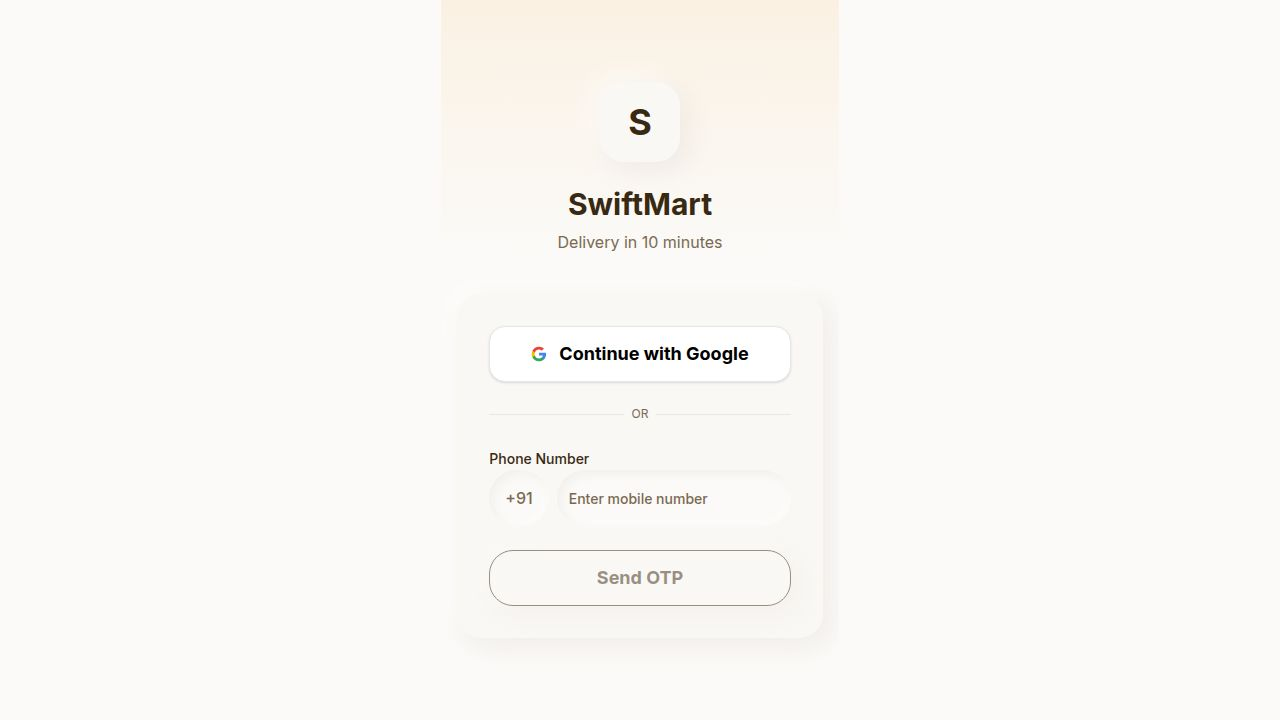
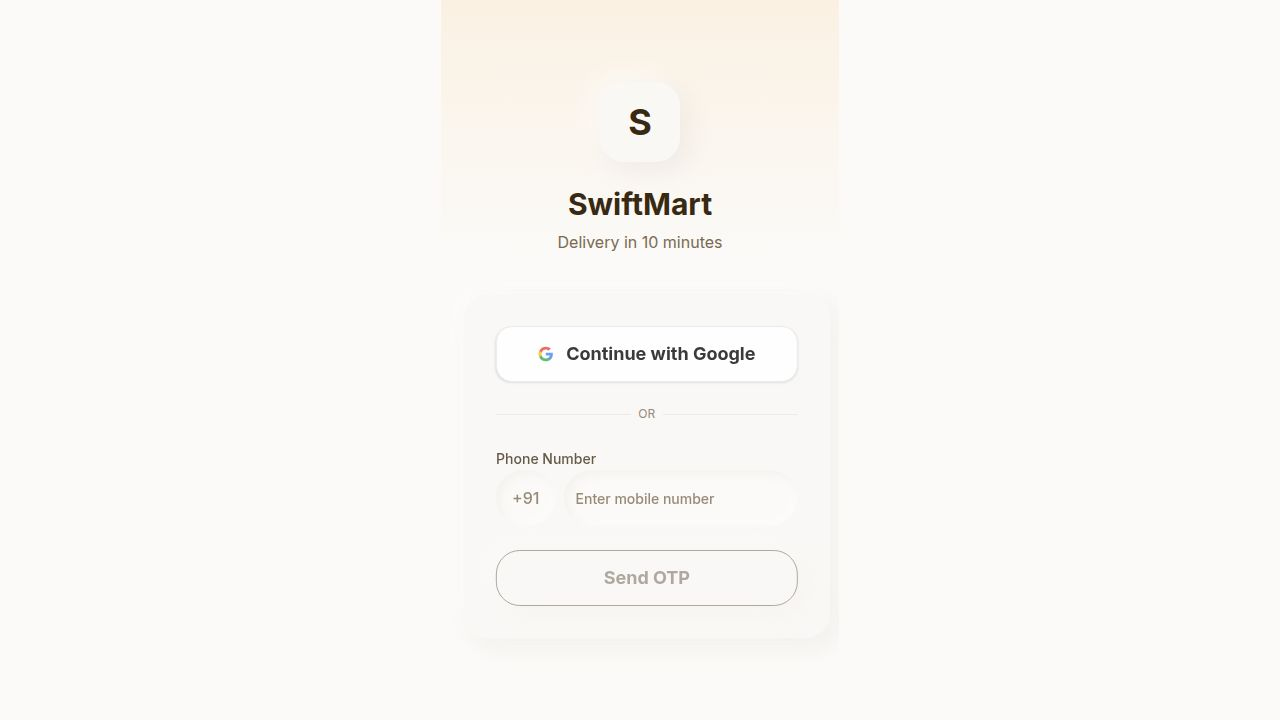
Add navigation links for desktop and display full vendor banking details
Updates the Header component to include desktop navigation links for customers and vendors, and modifies the Admin page to unmask PAN, GST, and bank account numbers for shop requests.

Replit-Commit-Author: Agent
Replit-Commit-Session-Id: 27d57067-208d-4d58-b0d6-c98e8c6edca7
Replit-Commit-Checkpoint-Type: full_checkpoint
Replit-Commit-Event-Id: 44a6b84e-fa17-4f4e-916f-cc07f54c04ff
Replit-Commit-Screenshot-Url: https://storage.googleapis.com/screenshot-production-us-central1/4d9b0657-f4fc-4e25-be52-dabf7b67d852/27d57067-208d-4d58-b0d6-c98e8c6edca7/WR2s22U
Replit-Helium-Checkpoint-Created: true

diff --git a/artifacts/swiftmart/src/components/Header.tsx b/artifacts/swiftmart/src/components/Header.tsx
@@ -1,6 +1,6 @@
-import { useState, useEffect } from "react";
+import { useState } from "react";
 import { Link, useLocation } from "wouter";
-import { Search, MapPin, ShoppingBag, Store } from "lucide-react";
+import { Search, MapPin, ShoppingBag, Store, Clock, User, Shield, LayoutDashboard, Package, ClipboardList, Plus } from "lucide-react";
 import { useAuth } from "@/hooks/useAuth";
 import { useCart } from "@/hooks/useCart";
 import { RoleSwitcher } from "./RoleSwitcher";
@@ -10,10 +10,10 @@ import { Button } from "./ui/button";
 import { AddressForm } from "./AddressForm";
 import { AddressCard } from "./AddressCard";
 import { toast } from "sonner";
-import { Plus } from "lucide-react";
+import { cn } from "@/lib/utils";
 
 export function Header() {
-  const { user, role, selectedDeliveryAddress, setSelectedDeliveryAddress, addAddress } = useAuth();
+  const { user, role, isAdmin, selectedDeliveryAddress, setSelectedDeliveryAddress, addAddress } = useAuth();
   const { totalItems } = useCart();
   const [location, setLocation] = useLocation();
   const [searchQuery, setSearchQuery] = useState("");
@@ -81,11 +81,95 @@ export function Header() {
             </div>
           )}
 
-          {/* Right icons — always shrink-0 */}
-          <div className="flex items-center gap-1.5 md:gap-3 shrink-0 ml-auto md:ml-0">
-            {/* Role switcher — compact on mobile */}
+          {/* Right side — icons + desktop nav */}
+          <div className="flex items-center gap-1.5 md:gap-2 shrink-0 ml-auto md:ml-0">
             {user?.vendorStatus === 'approved' && <RoleSwitcher />}
 
+            {/* Desktop nav links */}
+            {role === 'customer' && (
+              <nav className="hidden md:flex items-center gap-1">
+                {[
+                  { href: "/", icon: Store, label: "Home" },
+                  { href: "/orders", icon: Clock, label: "Orders" },
+                  { href: "/profile", icon: User, label: "Profile" },
+                ].map(({ href, icon: Icon, label }) => {
+                  const isActive = href === "/" ? location === "/" : location.startsWith(href);
+                  return (
+                    <Link
+                      key={href}
+                      href={href}
+                      className={cn(
+                        "flex items-center gap-1.5 px-3 py-1.5 rounded-xl text-sm font-medium transition-all",
+                        isActive
+                          ? "bg-primary/10 text-primary neu-inset"
+                          : "text-muted-foreground hover:text-foreground hover:bg-muted/50"
+                      )}
+                    >
+                      <Icon className="w-4 h-4" />
+                      {label}
+                    </Link>
+                  );
+                })}
+                {isAdmin && (
+                  <Link
+                    href="/admin"
+                    className={cn(
+                      "flex items-center gap-1.5 px-3 py-1.5 rounded-xl text-sm font-medium transition-all",
+                      location.startsWith("/admin")
+                        ? "bg-primary/10 text-primary neu-inset"
+                        : "text-muted-foreground hover:text-foreground hover:bg-muted/50"
+                    )}
+                  >
+                    <Shield className="w-4 h-4" />
+                    Admin
+                  </Link>
+                )}
+              </nav>
+            )}
+
+            {role === 'vendor' && (
+              <nav className="hidden md:flex items-center gap-1">
+                {[
+                  { href: "/vendor", icon: LayoutDashboard, label: "Dashboard" },
+                  { href: "/vendor/products", icon: Package, label: "Products" },
+                  { href: "/vendor/orders", icon: ClipboardList, label: "Orders" },
+                  { href: "/profile", icon: User, label: "Profile" },
+                ].map(({ href, icon: Icon, label }) => {
+                  const isActive = href === "/vendor" ? location === "/vendor" : location.startsWith(href);
+                  return (
+                    <Link
+                      key={href}
+                      href={href}
+                      className={cn(
+                        "flex items-center gap-1.5 px-3 py-1.5 rounded-xl text-sm font-medium transition-all",
+                        isActive
+                          ? "bg-primary/10 text-primary neu-inset"
+                          : "text-muted-foreground hover:text-foreground hover:bg-muted/50"
+                      )}
+                    >
+                      <Icon className="w-4 h-4" />
+                      {label}
+                    </Link>
+                  );
+                })}
+                {isAdmin && (
+                  <Link
+                    href="/admin"
+                    className={cn(
+                      "flex items-center gap-1.5 px-3 py-1.5 rounded-xl text-sm font-medium transition-all",
+                      location.startsWith("/admin")
+                        ? "bg-primary/10 text-primary neu-inset"
+                        : "text-muted-foreground hover:text-foreground hover:bg-muted/50"
+                    )}
+                  >
+                    <Shield className="w-4 h-4" />
+                    Admin
+                  </Link>
+                )}
+              </nav>
+            )}
+
+            {/* Mobile search + cart icons */}
             {role === 'customer' && (
               <>
                 <Link href="/search" className="md:hidden p-2 rounded-full neu-card">

diff --git a/artifacts/swiftmart/src/pages/Admin.tsx b/artifacts/swiftmart/src/pages/Admin.tsx
@@ -436,11 +436,11 @@ function ShopRequestsTab() {
                   </div>
                   <div className="text-sm grid grid-cols-[80px_1fr] gap-1">
                     <span className="text-muted-foreground">PAN:</span>
-                    <span className="font-mono text-foreground">{app.panNumber.substring(0,2)}***{app.panNumber.substring(5,6)}***{app.panNumber.substring(9)}</span>
+                    <span className="font-mono text-foreground">{app.panNumber}</span>
                     {app.gstNumber && (
                       <>
                         <span className="text-muted-foreground">GST:</span>
-                        <span className="font-mono text-foreground">{app.gstNumber.substring(0,2)}***{app.gstNumber.substring(12)}</span>
+                        <span className="font-mono text-foreground">{app.gstNumber}</span>
                       </>
                     )}
                   </div>
@@ -454,7 +454,7 @@ function ShopRequestsTab() {
                     <span className="text-muted-foreground">UPI:</span>
                     <span className="text-foreground">{app.upiId}</span>
                     <span className="text-muted-foreground">Bank:</span>
-                    <span className="font-mono text-foreground">****{app.bankAccountNumber.slice(-4)}</span>
+                    <span className="font-mono text-foreground">{app.bankAccountNumber}</span>
                   </div>
                 </div>
               </div>